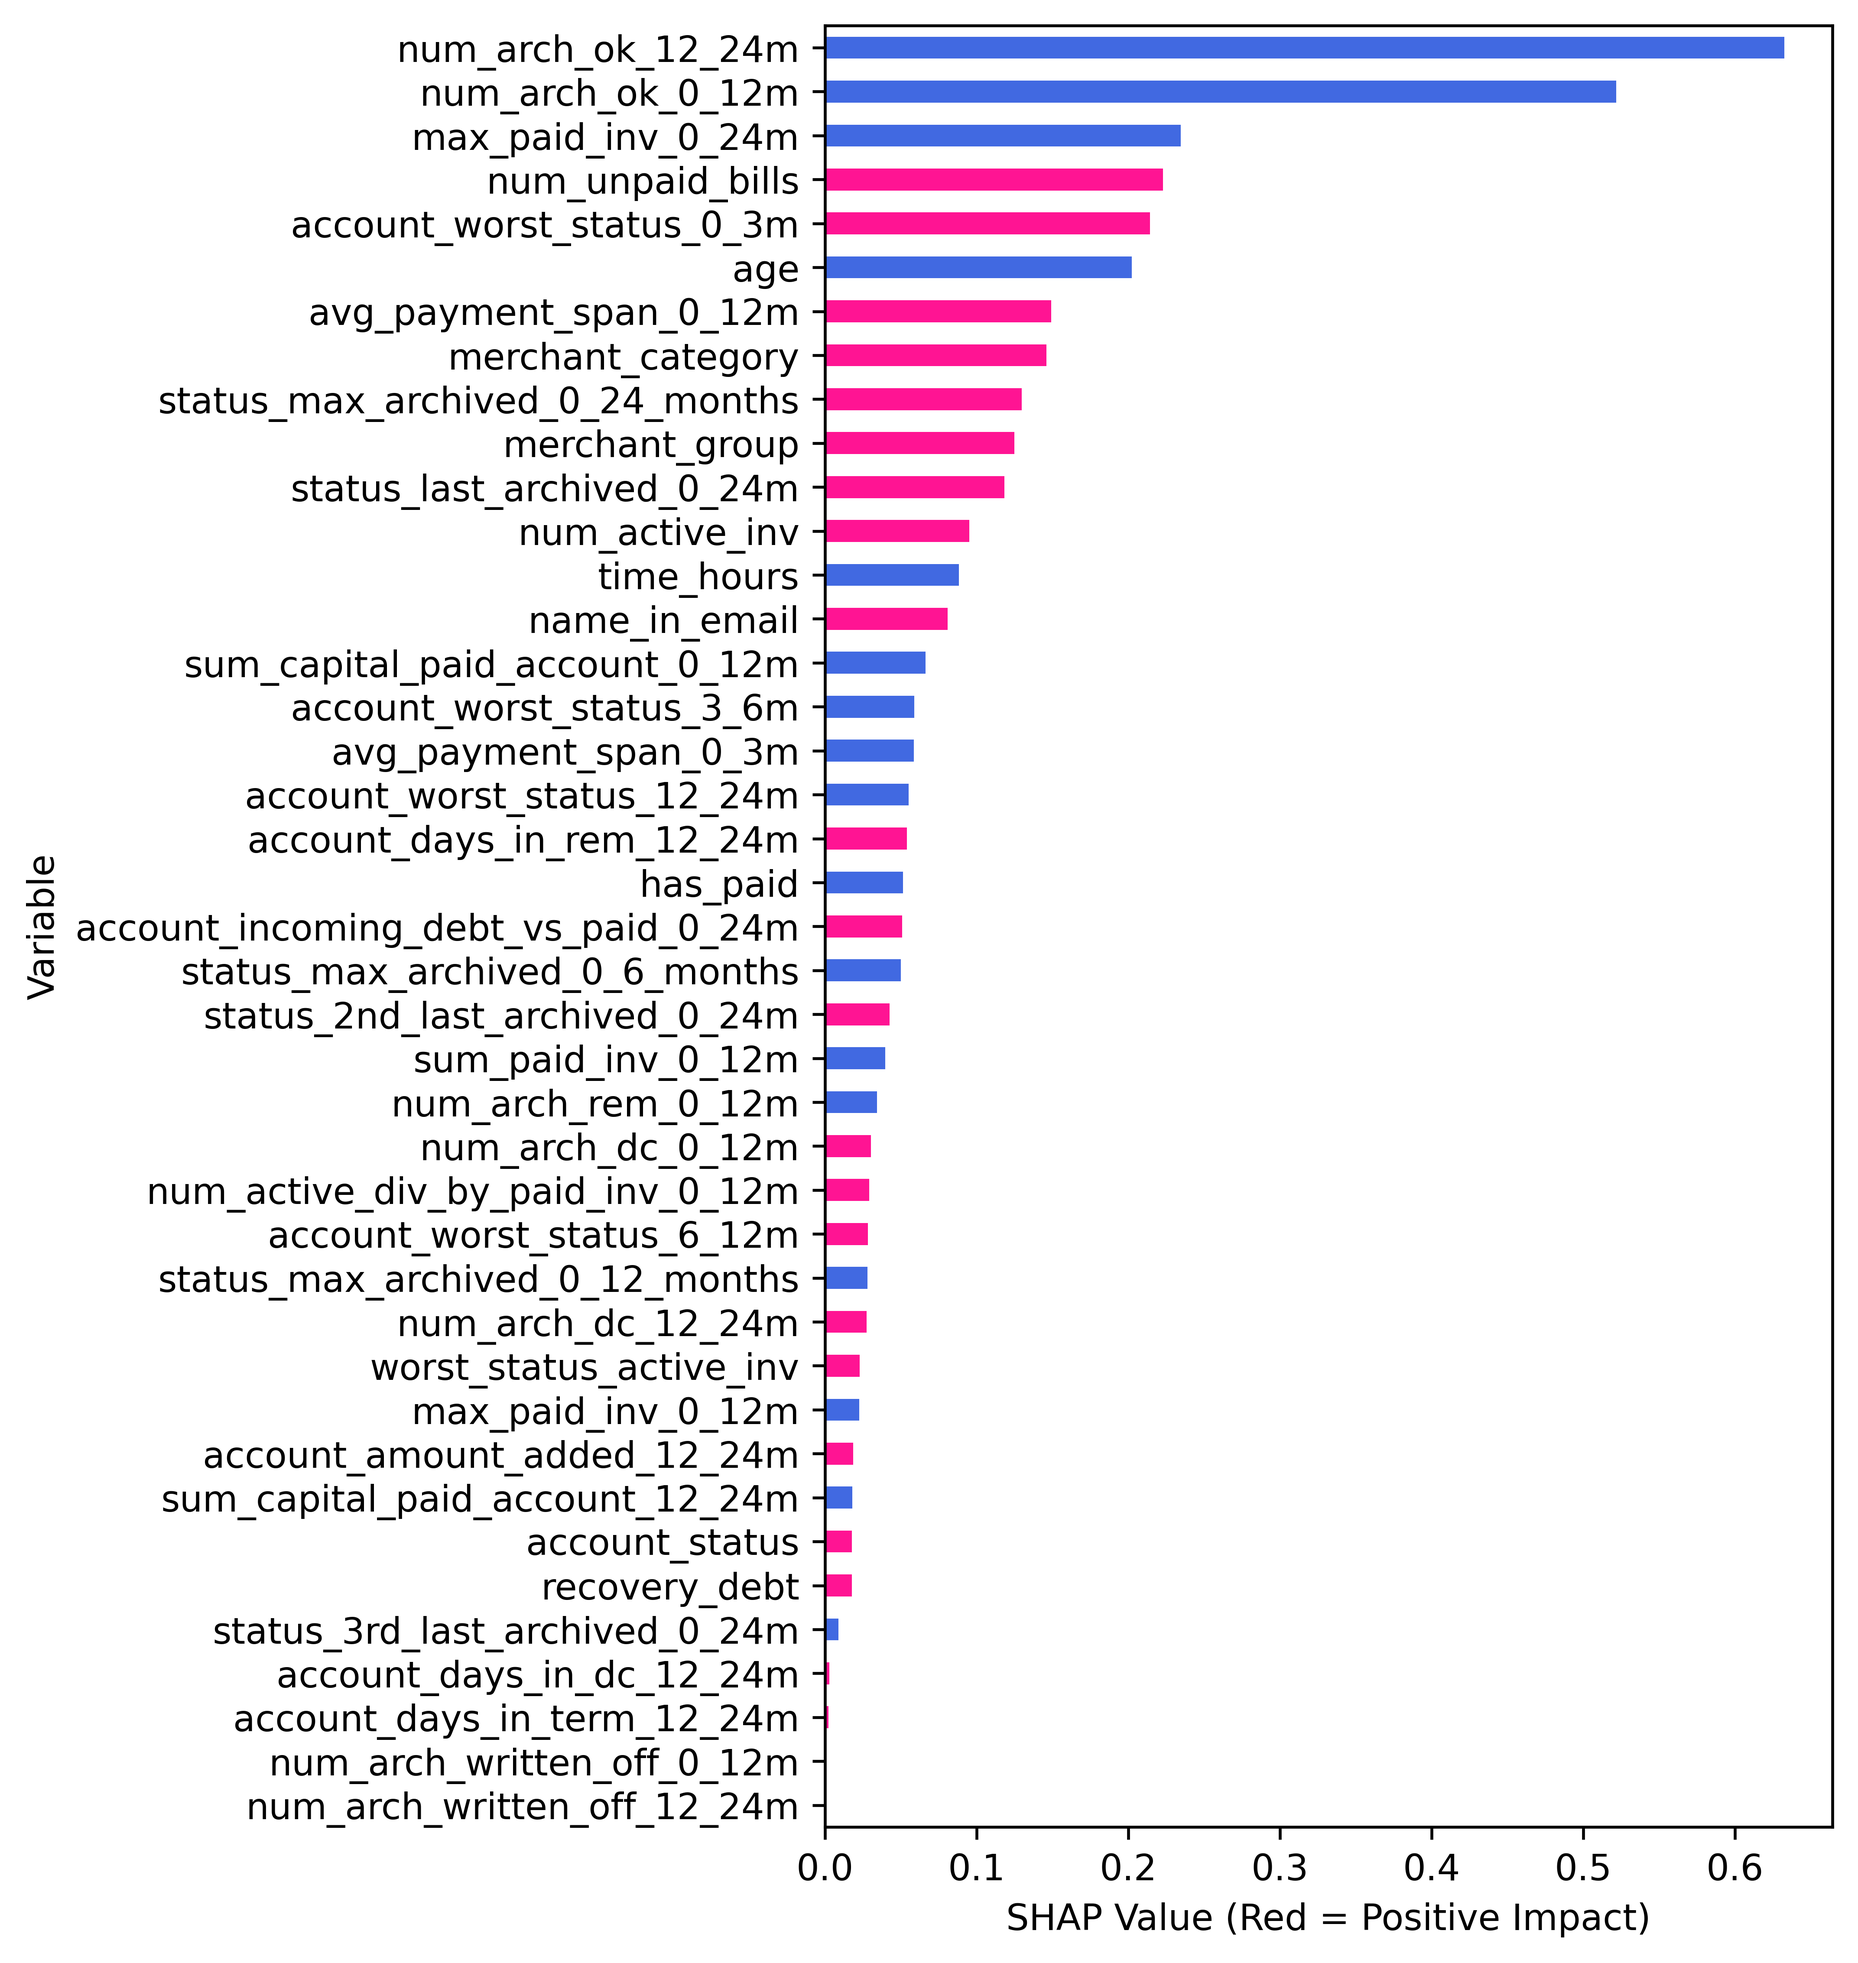
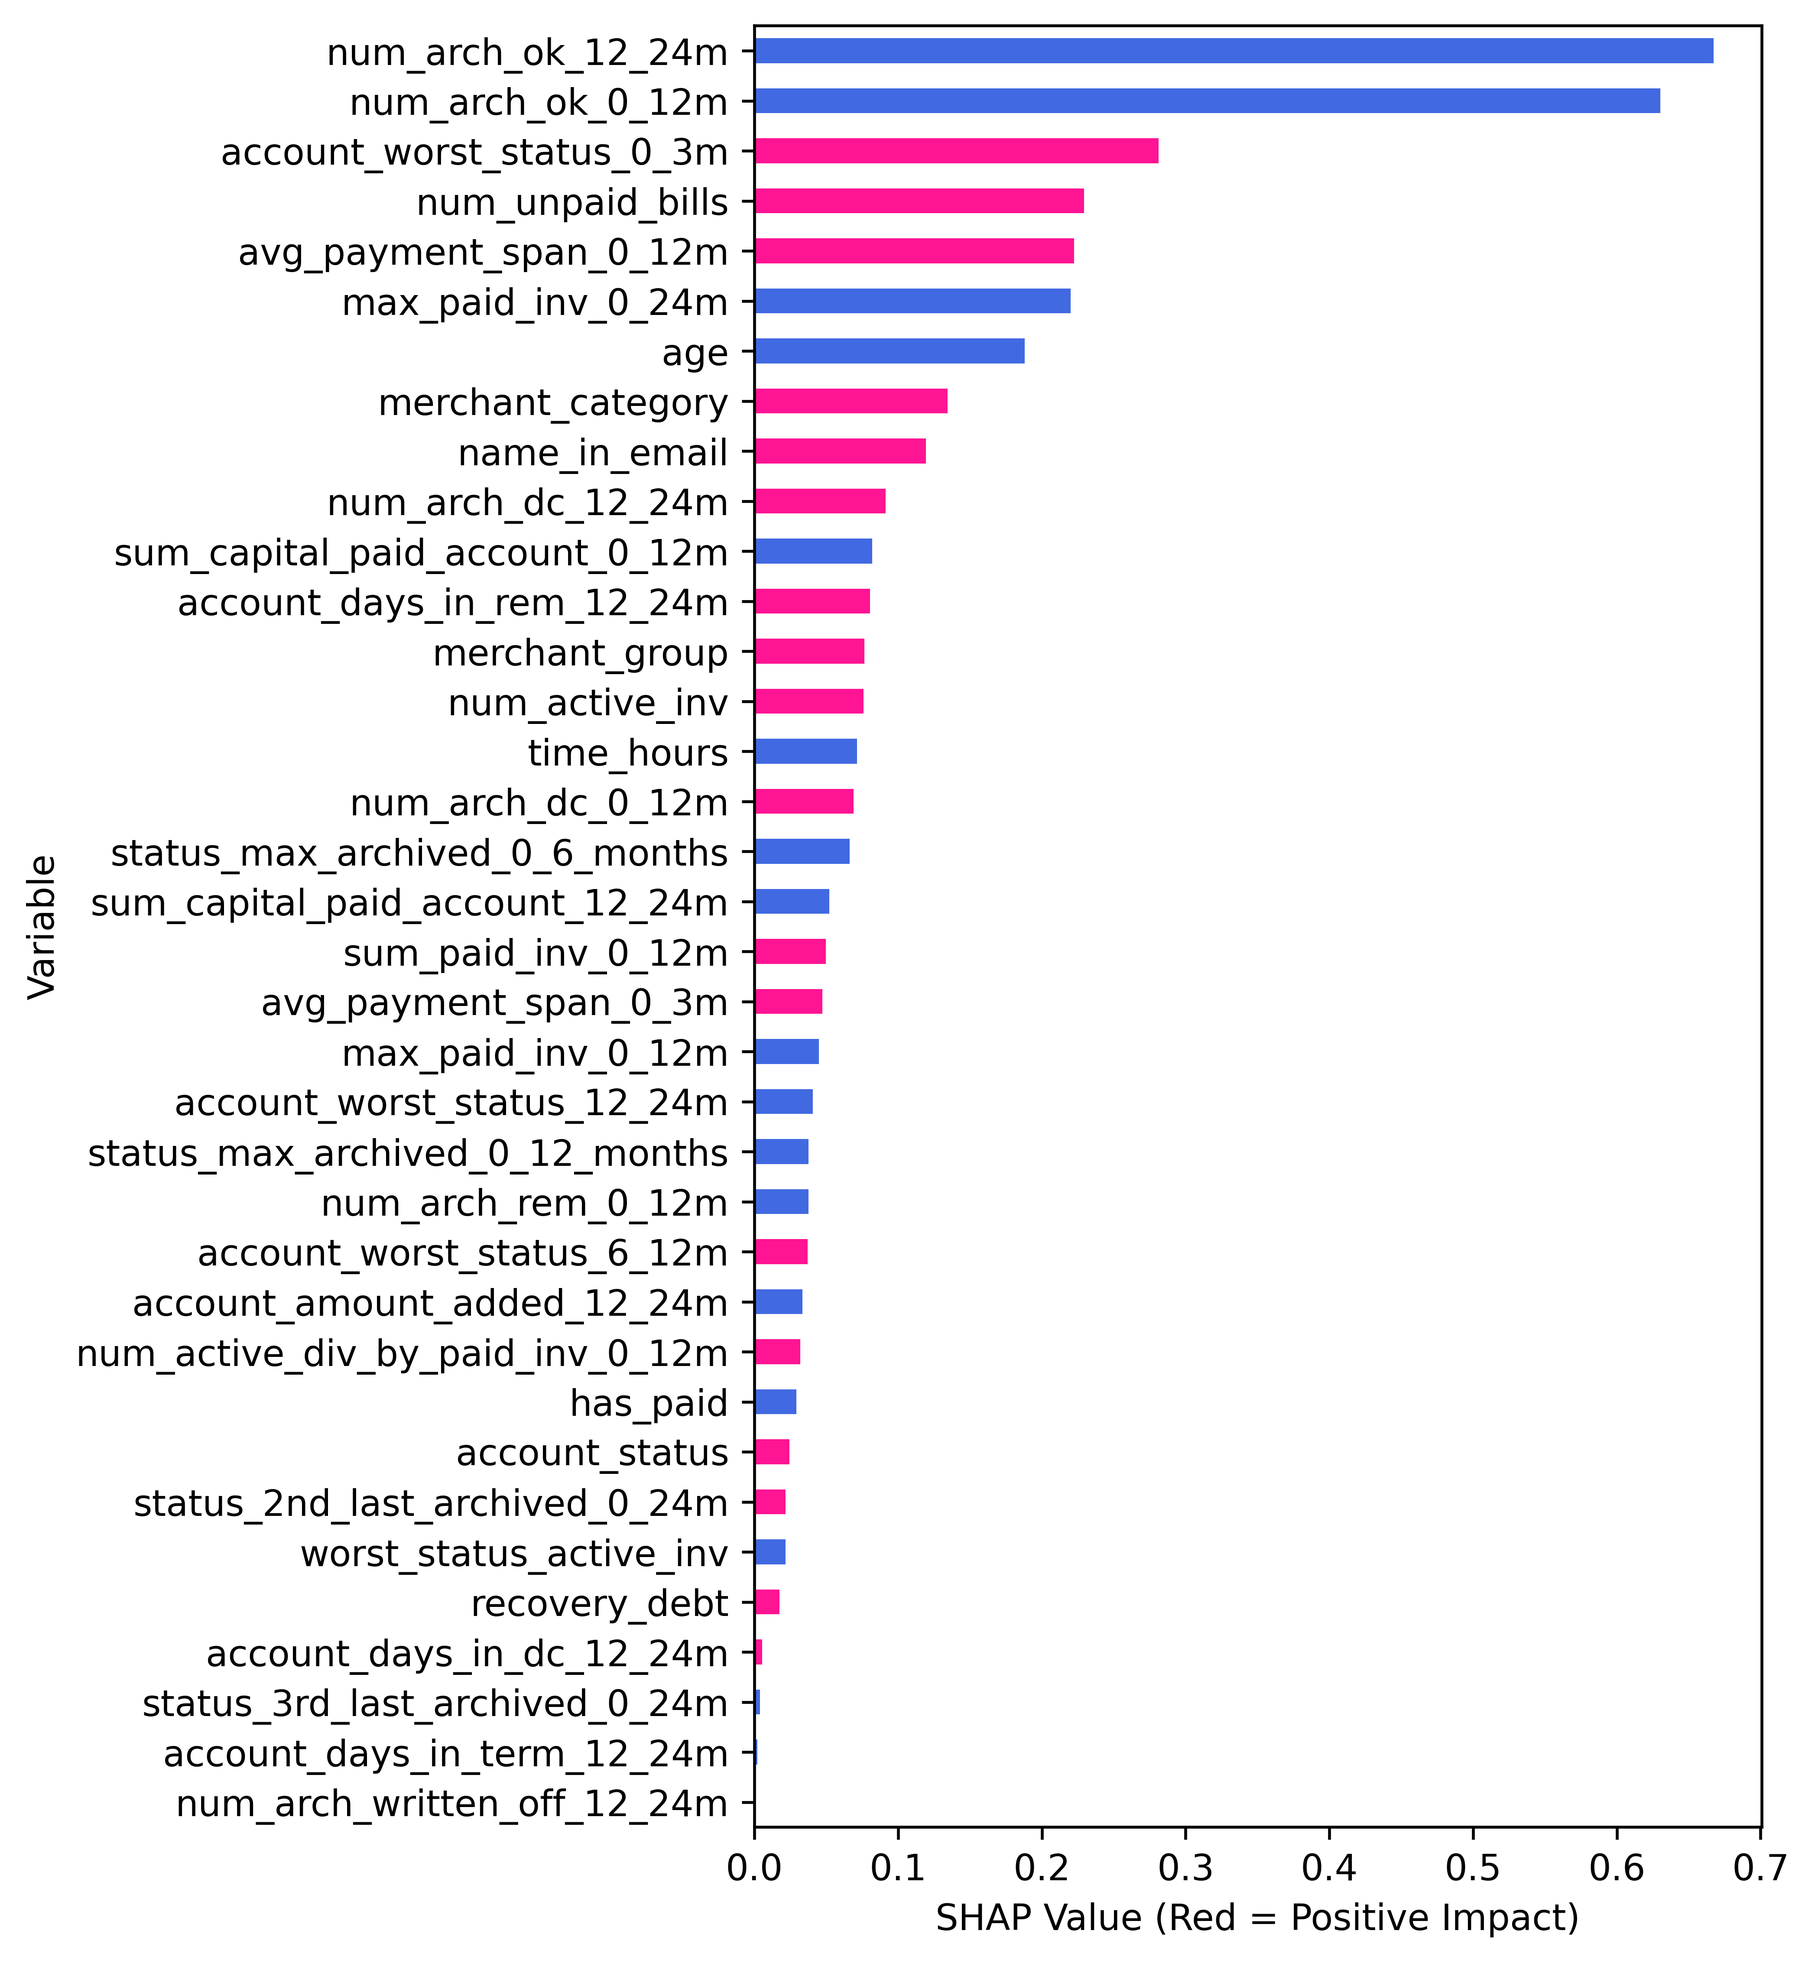
Update plots and plots script

diff --git a/presentation/plot_metrics.py b/presentation/plot_metrics.py
@@ -58,54 +58,10 @@ final_model = model.get_params()["model__model"]
 
 # Trandform Data
 fitted_train_data = preproc.transform(train_data)
-fitted_train_data = fitted_train_data[
-    [
-        "num_arch_dc_12_24m",
-        "num_arch_dc_0_12m",
-        "account_worst_status_0_3m",
-        "status_max_archived_0_12_months",
-        "num_active_div_by_paid_inv_0_12m",
-        "status_3rd_last_archived_0_24m",
-        "status_max_archived_0_24_months",
-        "has_paid",
-        "num_active_inv",
-        "account_worst_status_12_24m",
-        "account_days_in_term_12_24m",
-        "avg_payment_span_0_12m",
-        "status_max_archived_0_6_months",
-        "num_arch_rem_0_12m",
-        "account_days_in_dc_12_24m",
-        "merchant_group",
-        "avg_payment_span_0_3m",
-        "age",
-        "num_unpaid_bills",
-        "account_days_in_rem_12_24m",
-        "num_arch_ok_12_24m",
-        "merchant_category",
-        "recovery_debt",
-        "num_arch_ok_0_12m",
-        "name_in_email",
-        "max_paid_inv_0_24m",
-        "time_hours",
-        "sum_capital_paid_account_12_24m",
-        "sum_capital_paid_account_0_12m",
-        "max_paid_inv_0_12m",
-        "sum_paid_inv_0_12m",
-        "account_amount_added_12_24m",
-        "worst_status_active_inv",
-        "account_incoming_debt_vs_paid_0_24m",
-        "account_status",
-        "account_worst_status_6_12m",
-        "account_worst_status_3_6m",
-        "num_arch_written_off_0_12m",
-        "status_2nd_last_archived_0_24m",
-        "status_last_archived_0_24m",
-        "num_arch_written_off_12_24m",
-    ]
-]
+fitted_train_data = fitted_train_data[model.get_params()["featselect__select_features"]]
 
 metrics = metrics.sort_values(by="roc_auc")
-final_model =  final_model.get_params()['base_estimator']
+final_model = final_model.get_params()["base_estimator"]
 # Get SHAP Values
 shap_values = shap.TreeExplainer(final_model).shap_values(fitted_train_data)
 
@@ -118,7 +74,7 @@ plt.close()
 ABS_SHAP(shap_values, fitted_train_data)
 
 # Plot Metrics
-f, (ax1, ax2, ax3, ax4) = plt.subplots(4,figsize=(6,7))
+f, (ax1, ax2, ax3, ax4) = plt.subplots(4, figsize=(6, 7))
 f.suptitle("Metrics")
 ax1.bar(metrics["model"], metrics["roc_auc"])
 ax1.set_ylabel("ROC AUC")
